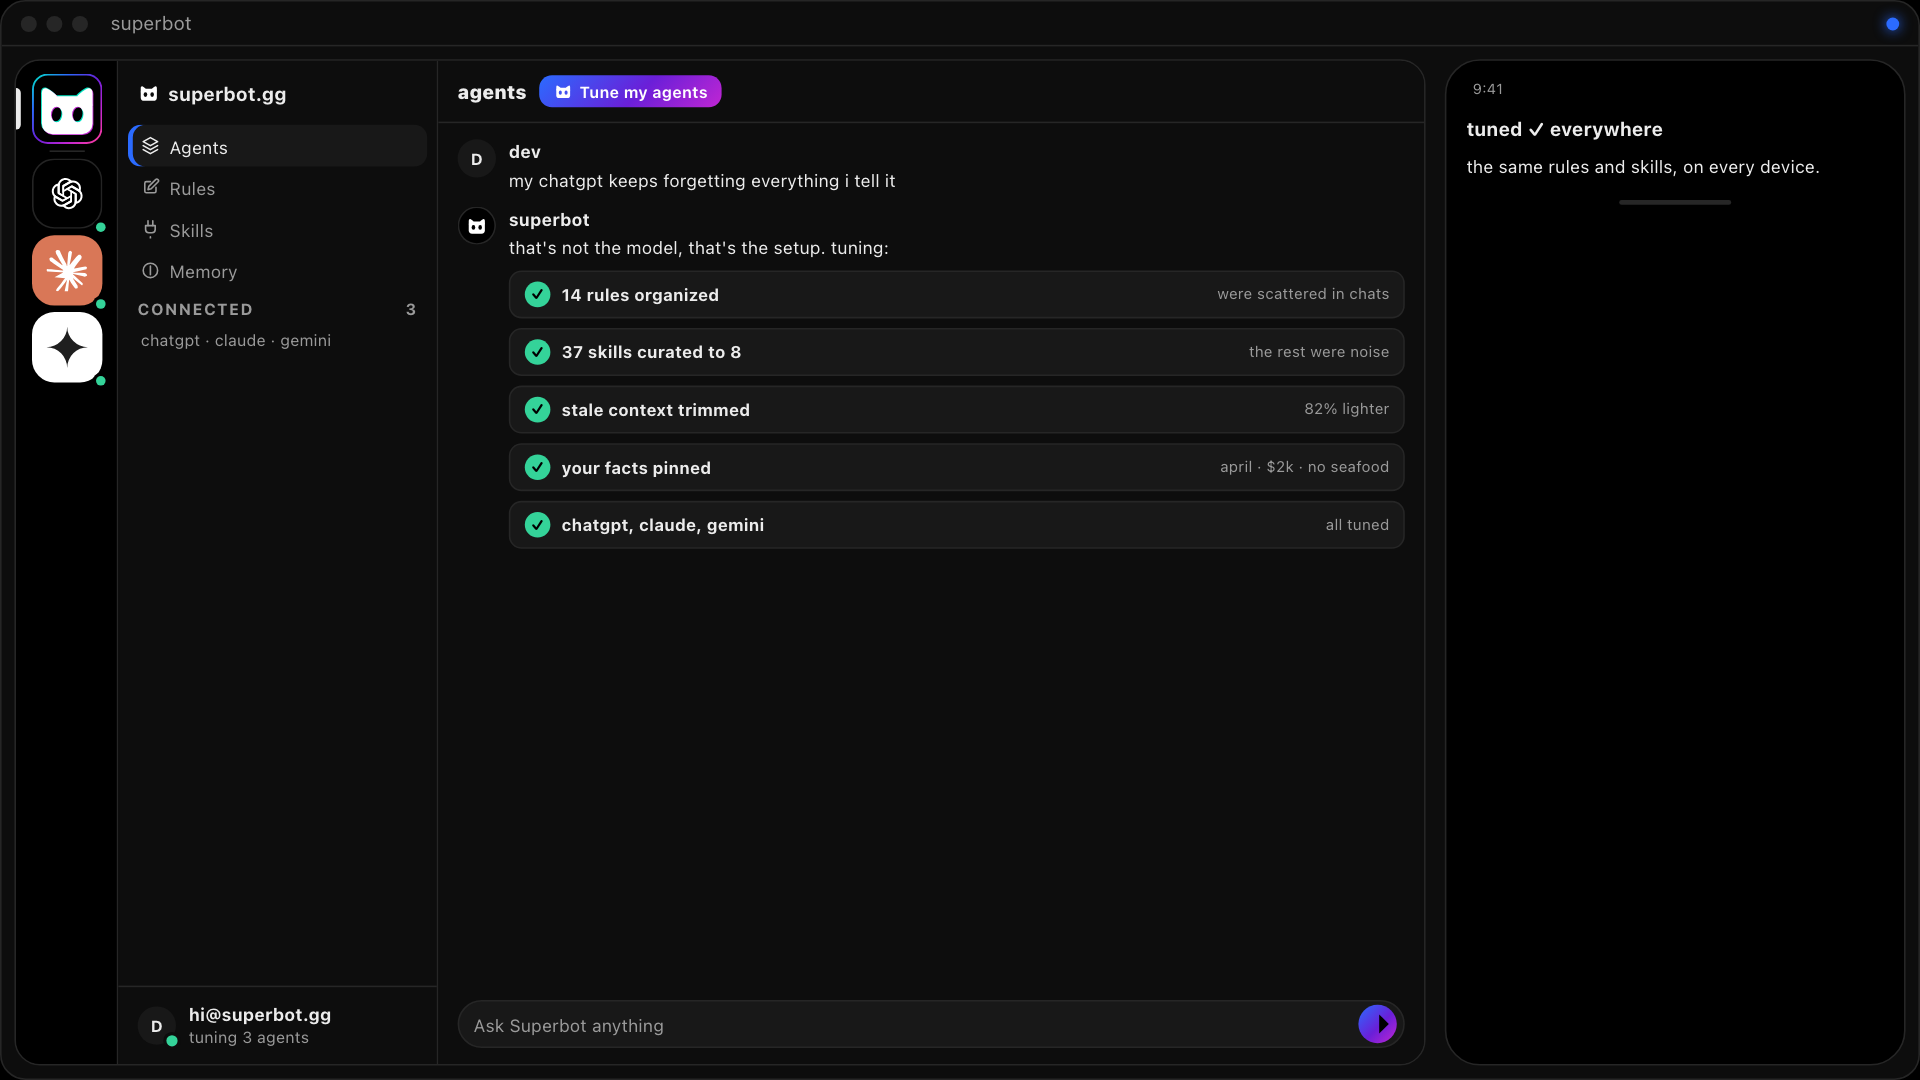
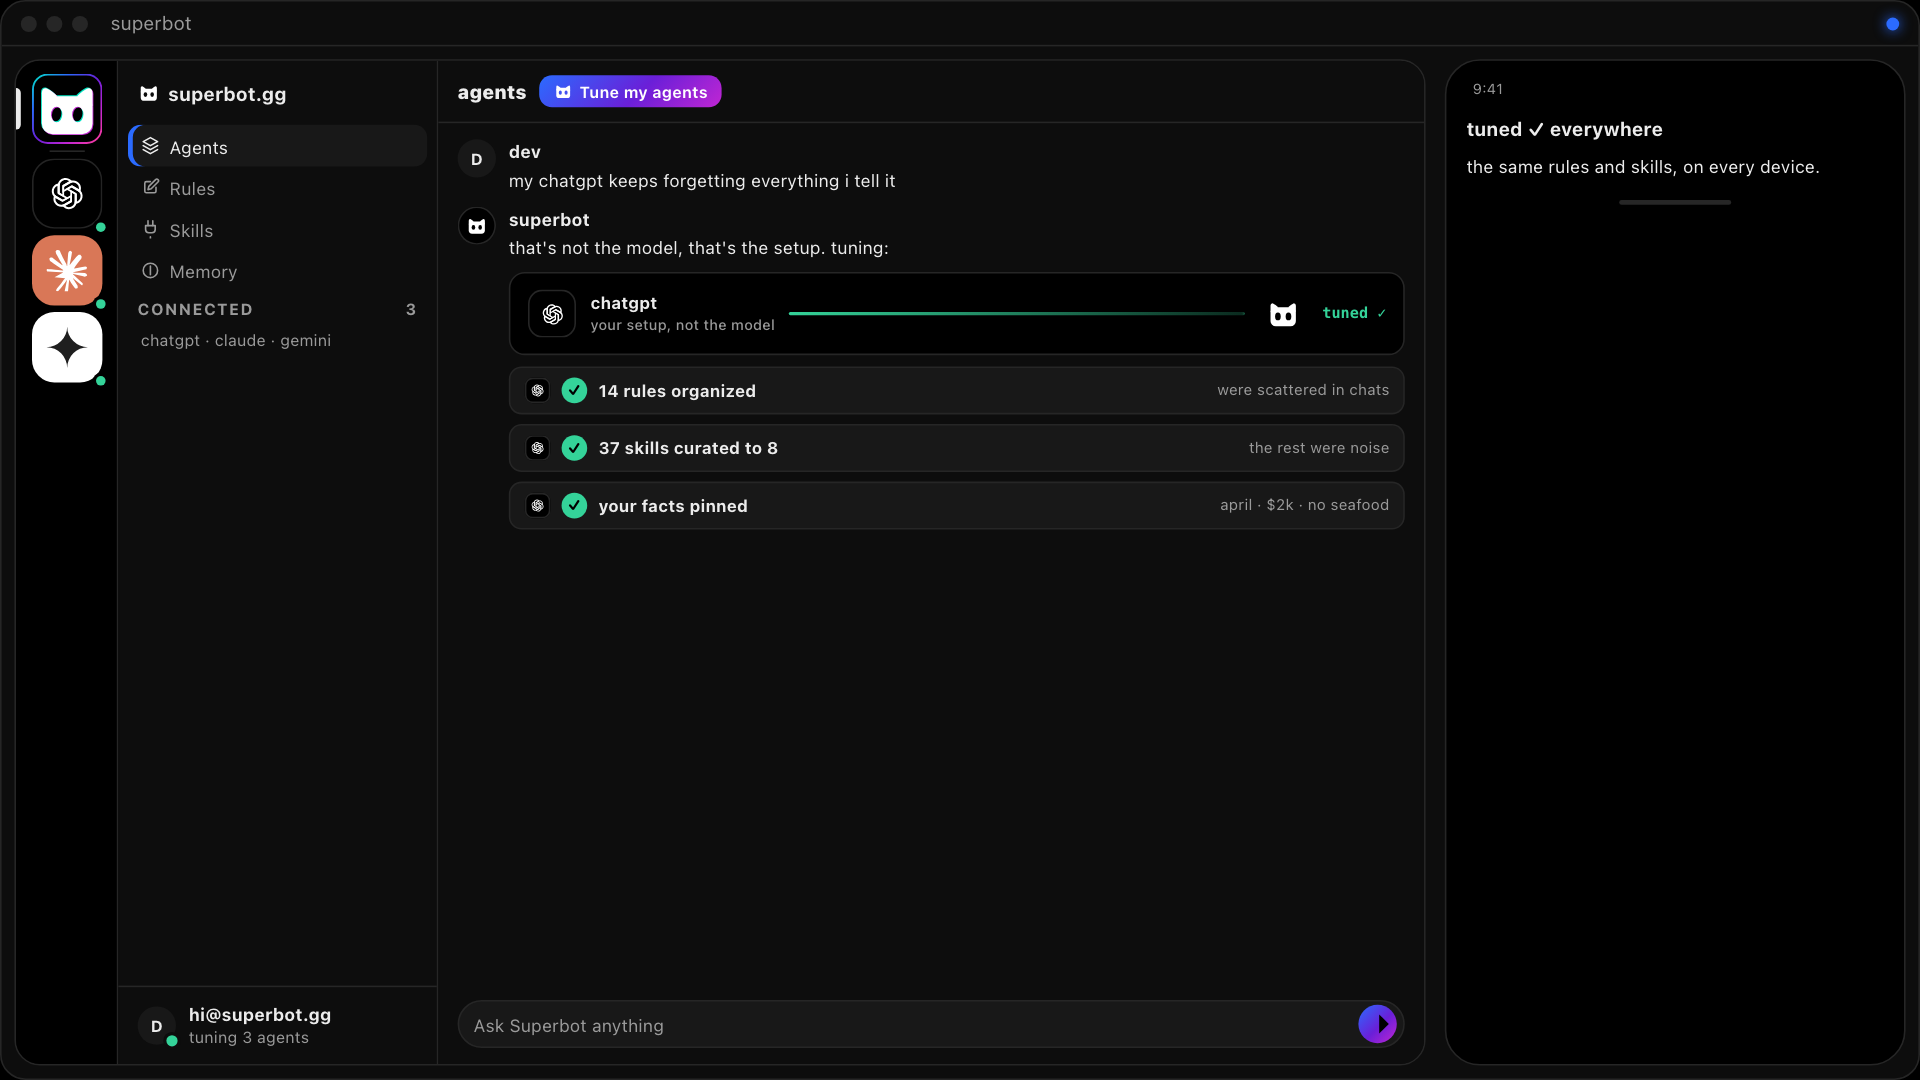
tuneup spot, round-4 pass per spoken feedback: the ChatGPT-to-superbot connection is now explicit (a connection card wires the ChatGPT glyph to the superbot mark, pulses 'tuning…' while the wire carries the storm glow, then flips to 'tuned ✓'); the tune-up rows drop from five fast ones to three slow

Changed region(s): [[0.25, 0.2444, 0.7188, 0.4889]]

diff --git a/animations/agent-tuneup-superbot-cc47ab91/index.html b/animations/agent-tuneup-superbot-cc47ab91/index.html
@@ -122,8 +122,25 @@ body { font-family: var(--ui); color: var(--fg); -webkit-font-smoothing: antiali
 .tune { margin-top: 7px; display: grid; gap: 6px; }
 .tune-row { display: flex; align-items: center; gap: 7px; padding: 6px 9px; border: 1px solid var(--line); border-radius: 8px; background: var(--raised); font: 10.5px/14px var(--ui); opacity: 0; }
 .tune-row .tk { flex: none; width: 16px; height: 16px; border-radius: 50%; background: var(--ok); color: #000; display: grid; place-items: center; font: 800 9px/16px var(--ui); }
+.tune-row .ai { flex: none; width: 16px; height: 16px; border-radius: 5px; background: #000; display: grid; place-items: center; box-shadow: inset 0 0 0 1px var(--line); }
+.tune-row .ai svg { width: 10px; height: 10px; fill: #fff; }
 .tune-row b { font-weight: 700; }
 .tune-row small { color: var(--muted); margin-left: auto; font-size: 9.5px; }
+/* the connection card: superbot reaching into chatgpt, the owner's round-3 note */
+#h-connect { margin-top: 8px; padding: 10px 11px; border: 1px solid var(--line); border-radius: 10px; background: #000; display: flex; align-items: center; gap: 9px; opacity: 0; }
+#h-connect .ic { flex: none; width: 30px; height: 30px; border-radius: 9px; display: grid; place-items: center; }
+#h-connect .ic.oa { background: #000; box-shadow: inset 0 0 0 1px var(--line); }
+#h-connect .ic.oa svg { width: 17px; height: 17px; fill: #fff; }
+#h-connect .ic.sb { background: #000; }
+#h-connect .ic.sb img { width: 22px; height: 22px; }
+#h-connect .lbl { font: 700 10.5px/13px var(--ui); }
+#h-connect .lbl small { display: block; color: var(--muted); font-weight: 500; font-size: 9px; }
+#h-connect .wire { flex: 1; height: 2px; border-radius: 1px; background: linear-gradient(90deg, var(--line), var(--storm-1)); position: relative; overflow: hidden; }
+#h-connect .wire i { position: absolute; top: -2px; width: 14px; height: 6px; border-radius: 3px; background: var(--storm-1); filter: blur(1px); }
+#h-connect .state { flex: none; font: 700 9.5px/12px var(--mono); color: var(--storm-1); }
+#h-connect.done .state { color: var(--ok); }
+#h-connect.done .wire { background: linear-gradient(90deg, var(--ok), rgba(52,211,153,.2)); }
+#h-connect.done .wire i { background: var(--ok); }
 .composer { flex: none; margin: 6px 12px 10px; }
 .composer .pill { display: flex; align-items: center; gap: 6px; min-height: 30px; padding: 0 4px 0 9px; border-radius: 16px; background: var(--raised); border: 1px solid var(--line); color: var(--muted); }
 .composer .ph { flex: 1; }
@@ -230,12 +247,17 @@ html { --site-k: 1.6; }
               <div class="feed">
                 <div class="msg" id="h-user"><span class="avatar">D</span><div class="m-main"><div class="m-head"><span class="m-name">dev</span></div><div class="m-text">my chatgpt keeps forgetting everything i tell it</div></div></div>
                 <div class="msg" id="h-bot"><span class="avatar sb"><img src="assets/mark-clean.svg" alt=""/></span><div class="m-main"><div class="m-head"><span class="m-name">superbot</span></div><div class="m-text" id="h-text"></div>
+                  <div id="h-connect">
+                    <span class="ic oa"><svg viewBox="0 0 2406 2406"><use href="#ic-openai"/></svg></span>
+                    <span class="lbl">chatgpt<small>your setup, not the model</small></span>
+                    <span class="wire"><i id="h-pulse"></i></span>
+                    <span class="ic sb"><img src="assets/mark-clean.svg" alt=""/></span>
+                    <span class="state" id="h-state">tuning…</span>
+                  </div>
                   <div class="tune" id="h-tune">
-                    <div class="tune-row" id="t1"><span class="tk">✓</span><b>14 rules organized</b><small>were scattered in chats</small></div>
-                    <div class="tune-row" id="t2"><span class="tk">✓</span><b>37 skills curated to 8</b><small>the rest were noise</small></div>
-                    <div class="tune-row" id="t3"><span class="tk">✓</span><b>stale context trimmed</b><small>82% lighter</small></div>
-                    <div class="tune-row" id="t4"><span class="tk">✓</span><b>your facts pinned</b><small>april · $2k · no seafood</small></div>
-                    <div class="tune-row" id="t5"><span class="tk">✓</span><b>chatgpt, claude, gemini</b><small>all tuned</small></div>
+                    <div class="tune-row" id="t1"><span class="ai"><svg viewBox="0 0 2406 2406"><use href="#ic-openai"/></svg></span><span class="tk">✓</span><b>14 rules organized</b><small>were scattered in chats</small></div>
+                    <div class="tune-row" id="t2"><span class="ai"><svg viewBox="0 0 2406 2406"><use href="#ic-openai"/></svg></span><span class="tk">✓</span><b>37 skills curated to 8</b><small>the rest were noise</small></div>
+                    <div class="tune-row" id="t3"><span class="ai"><svg viewBox="0 0 2406 2406"><use href="#ic-openai"/></svg></span><span class="tk">✓</span><b>your facts pinned</b><small>april · $2k · no seafood</small></div>
                   </div>
                 </div></div>
               </div>
@@ -300,7 +322,7 @@ html { --site-k: 1.6; }
 
 <script>
 // the house clock: one render(t), a pure function of story time
-const FPS = 30, LOOP = 26.2;
+const FPS = 30, LOOP = 28.0;
 const $ = (id) => document.getElementById(id);
 const clamp01 = (v) => Math.max(0, Math.min(1, v));
 const seg = (t, a, b) => clamp01((t - a) / (b - a));
@@ -316,11 +338,11 @@ const B = {
   popup: 4.95, curIn: 4.85, curAt: 5.90, press: 6.10, release: 6.30, // the house popup, click 1.15s after it appears
   verdict1: 6.35,                             // the red verdict chip lands just before the dip
   dip1: 6.55, site: 6.85,                     // the tune-up
-  ask: 7.45, reply2: 8.0, tune: 8.6, tuneGap: 0.6, tuned: 12.2, // the tune-up rows land
-  dip2: 12.6, back: 12.9,                     // back to ChatGPT
-  think2: 13.4, reply3: 13.9,                 // the crisp answer streams fast
-  verdict2: 17.3,                             // the green verdict chip
-  cardA: 18.7, cardStep: 1.45, end: 25.0, word: 25.6,
+  ask: 7.45, reply2: 8.0, connect: 8.7, tune: 9.6, tuneGap: 1.15, tuned: 13.3, // three rows, slow, one at a time
+  dip2: 13.8, back: 14.1,                     // back to ChatGPT
+  think2: 14.6, reply3: 15.1,                 // the crisp answer streams fast
+  verdict2: 18.5,                             // the green verdict chip
+  cardA: 19.9, cardStep: 1.45, end: 26.2, word: 26.8,
 };
 
 // ---------- copy ----------
@@ -342,7 +364,8 @@ const gThread = gCol.parentElement;
 const popup = $('popup'), chatbtn = $('chatbtn');
 const site = $('site'), hub = $('hub'), feedEl = hub.querySelector('.feed');
 const hUser = $('h-user'), hBot = $('h-bot'), hText = $('h-text');
-const tuneRows = ['t1','t2','t3','t4','t5'].map($);
+const hConnect = $('h-connect'), hPulse = $('h-pulse'), hState = $('h-state');
+const tuneRows = ['t1','t2','t3'].map($);
 const card = $('card'); const cardLines = [...card.querySelectorAll('.line')];
 const end = $('end'), endFace = $('end-face'), endSlide = $('end-slide');
 
@@ -398,8 +421,15 @@ function renderSite(t) {
   const bo = seg(t, B.reply2, B.reply2 + 0.25); op(hBot, bo); hBot.style.transform = `translateY(${((1 - outCubic(bo)) * 6).toFixed(1)}px)`;
   const chars = t < B.reply2 ? 0 : Math.min(TUNE_REPLY.length, Math.floor((t - B.reply2) * 60));
   hText.textContent = TUNE_REPLY.slice(0, chars);
+  // the connection card: the wire pulses while superbot works inside chatgpt, then flips to tuned
+  const cc = seg(t, B.connect, B.connect + 0.3); op(hConnect, cc);
+  const done = t >= B.tuned;
+  hConnect.classList.toggle('done', done);
+  hState.textContent = done ? 'tuned ✓' : 'tuning…';
+  hPulse.style.left = done ? '100%' : `${(8 + 78 * ((t * 1.4) % 1)).toFixed(1)}%`;
+  // the rows land one at a time, slow enough to read
   tuneRows.forEach((el, i) => {
-    const at = B.tune + i * B.tuneGap, p = seg(t, at, at + 0.3);
+    const at = B.tune + i * B.tuneGap, p = seg(t, at, at + 0.45);
     op(el, p);
     el.style.transform = `translateY(${((1 - outQuint(p)) * 6).toFixed(1)}px)`;
   });
